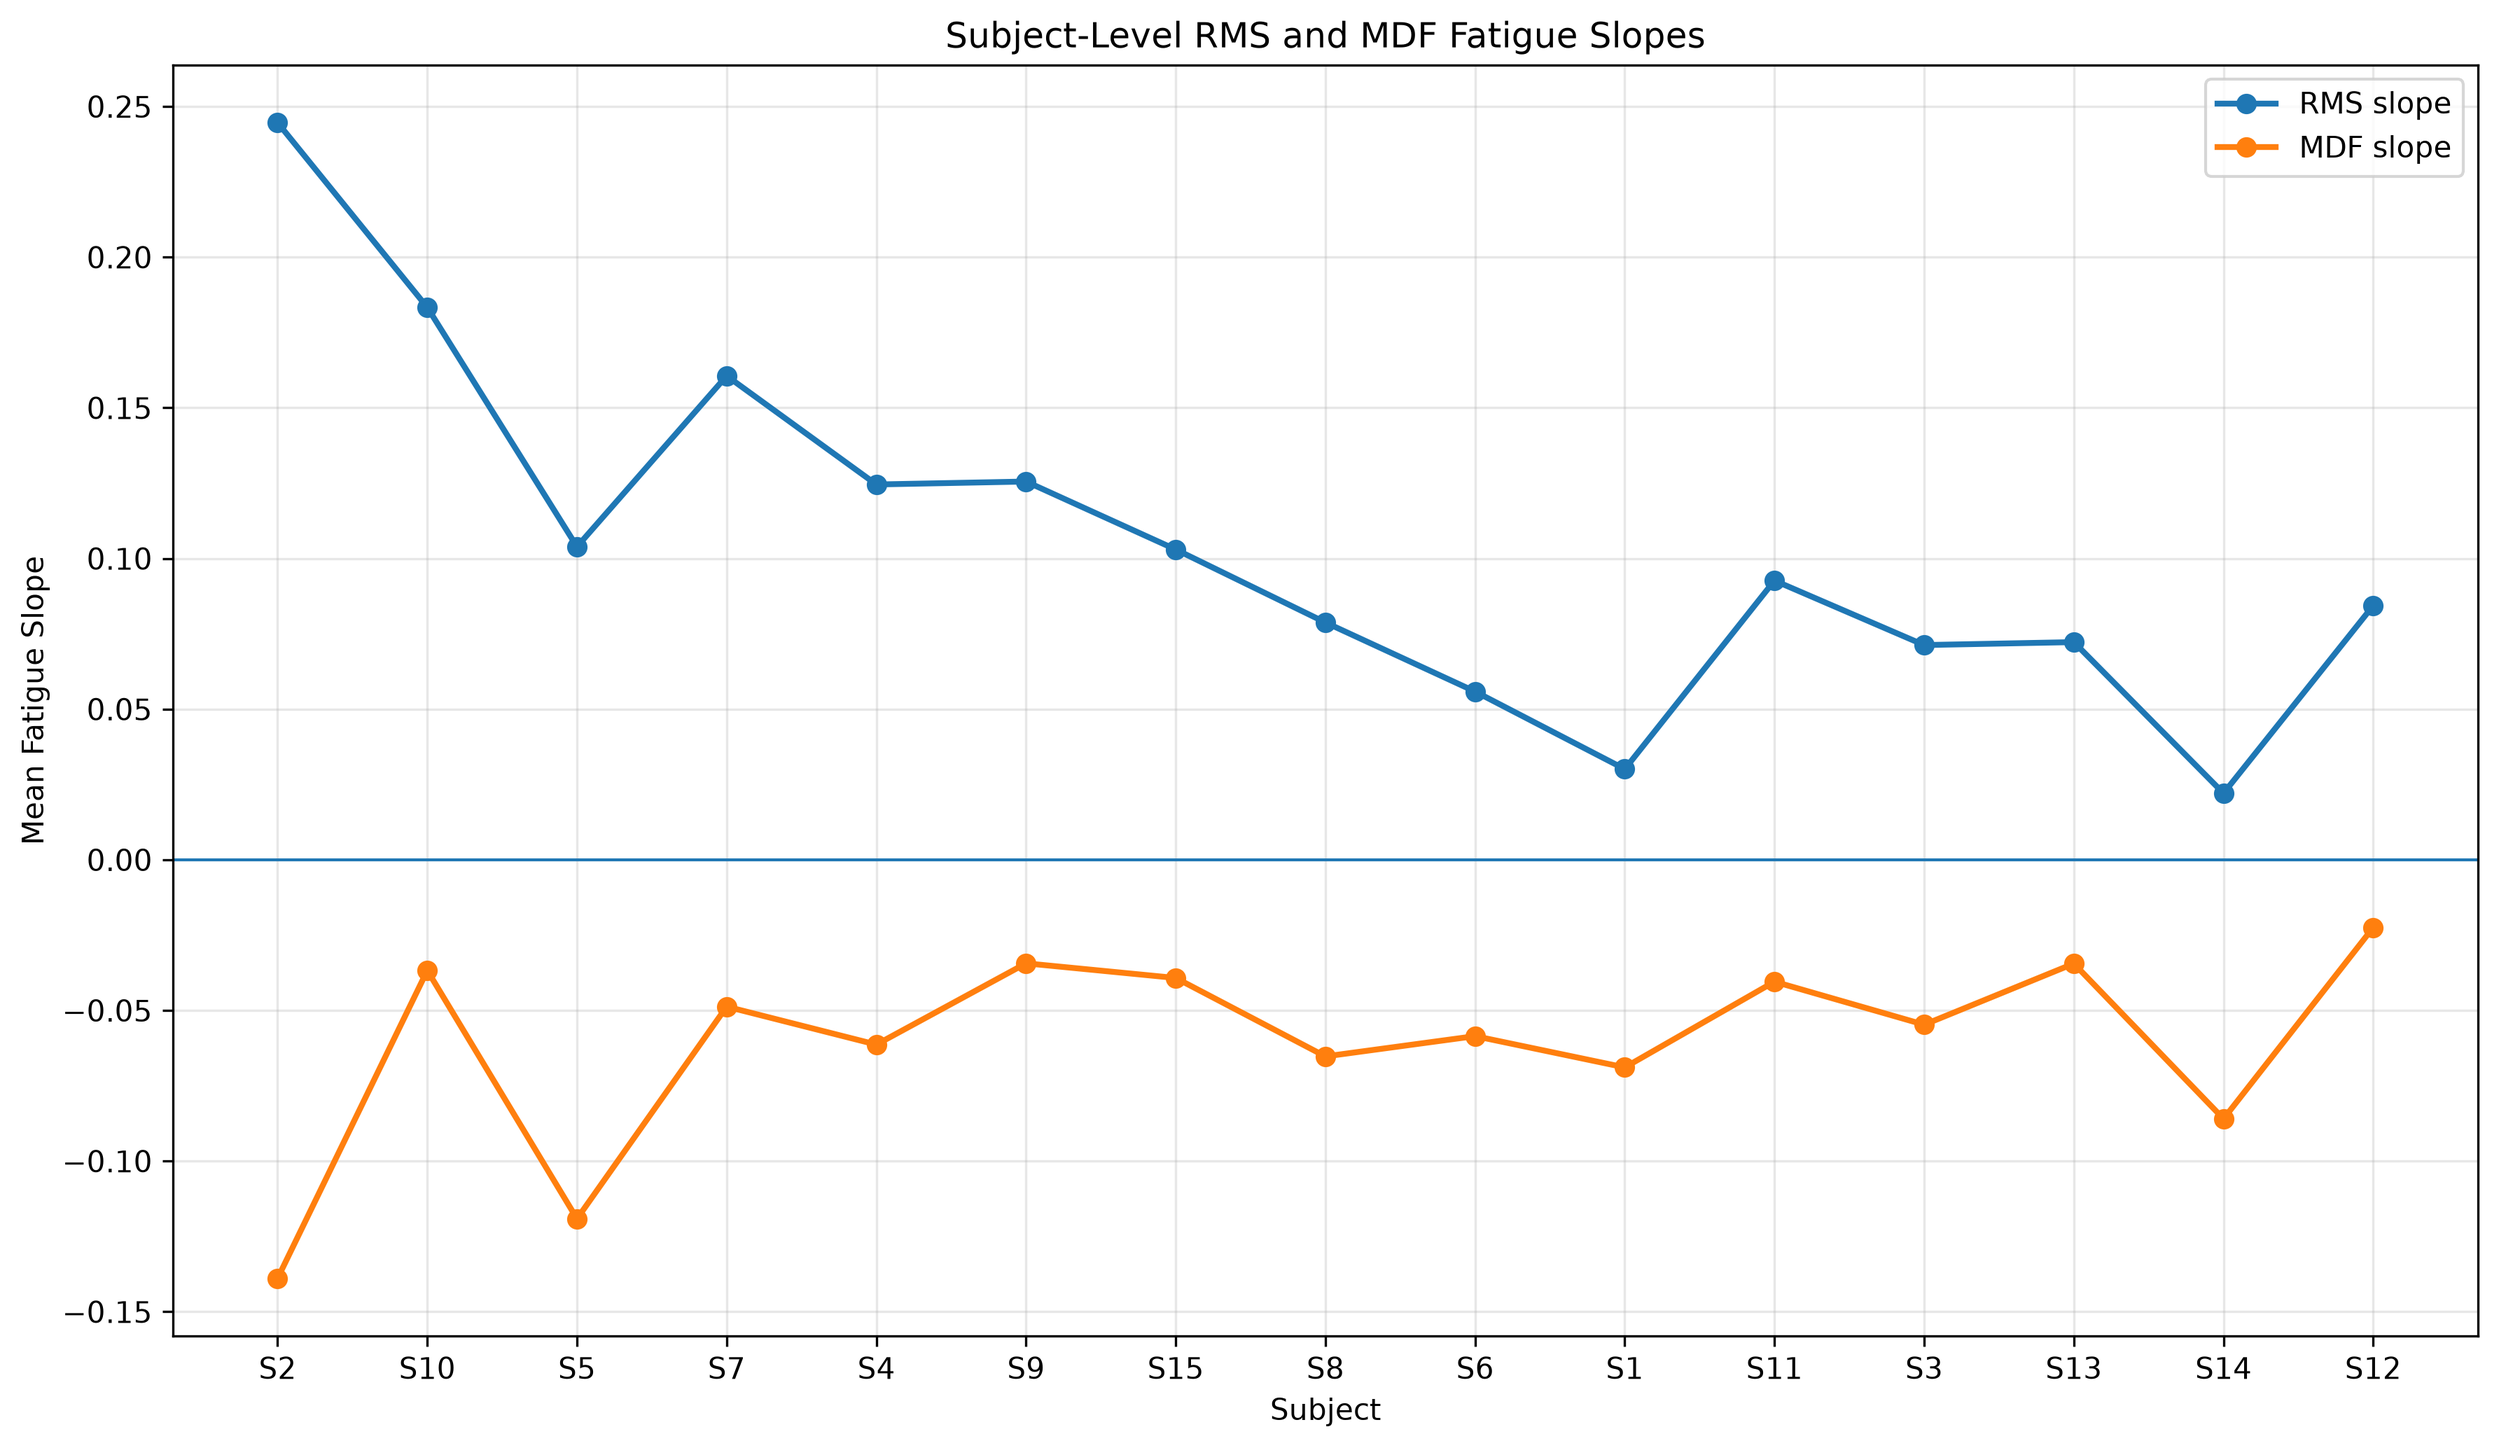
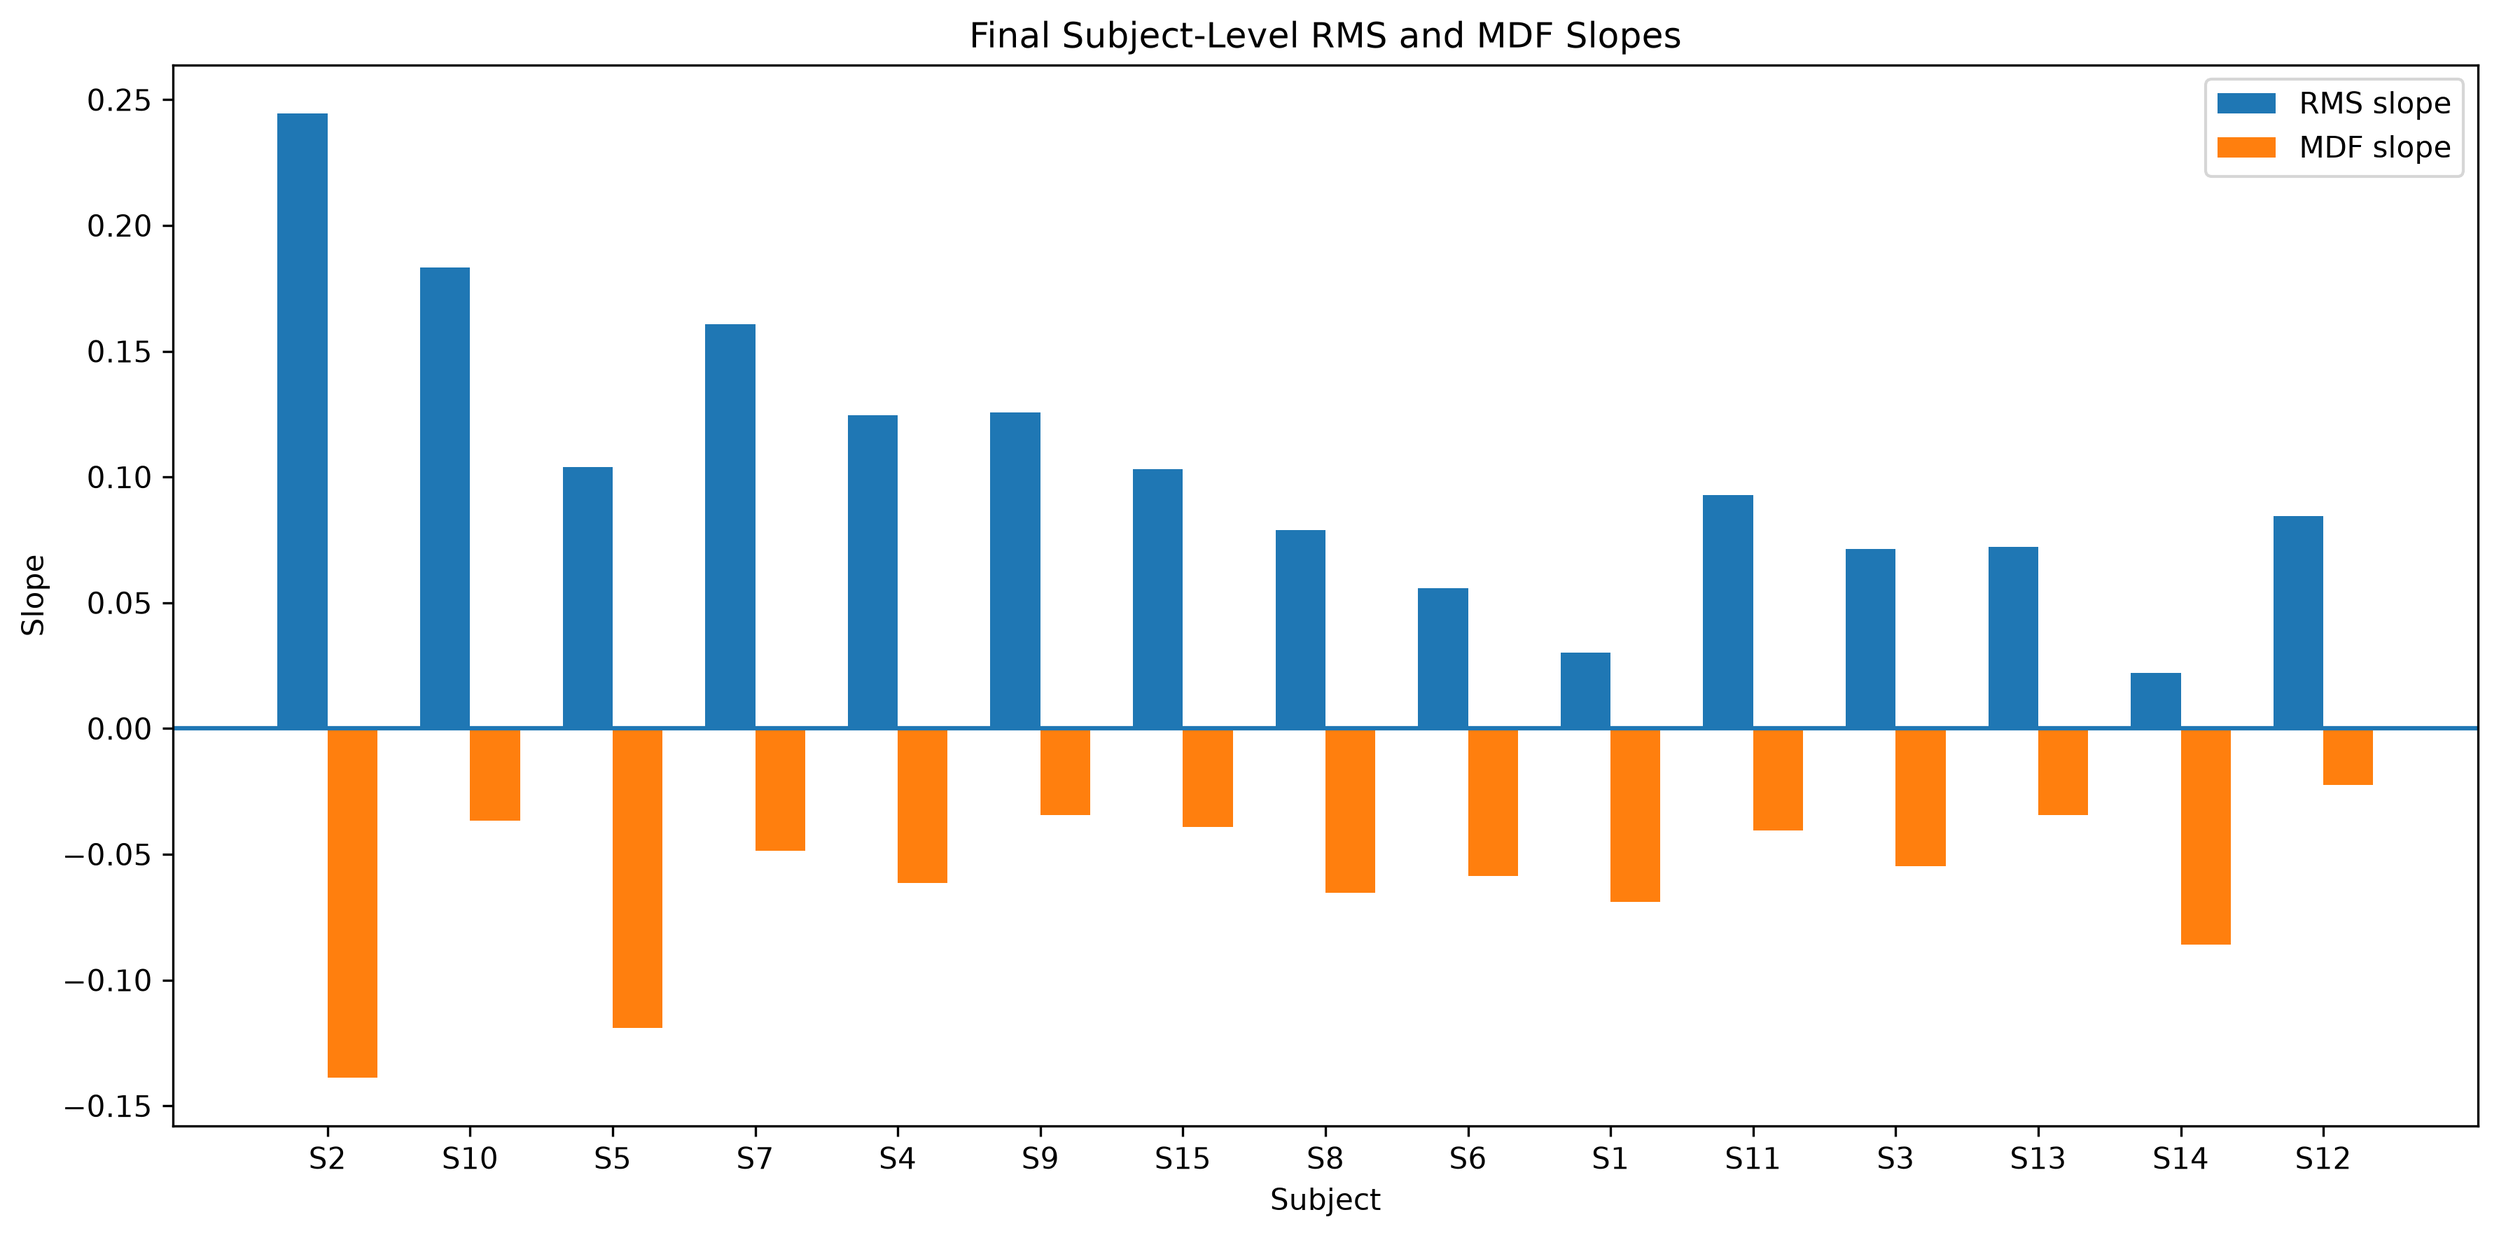
Update subject-level fatigue analysis and figures

diff --git a/subject_level_plots.py b/subject_level_plots.py
@@ -1,6 +1,6 @@
 import pandas as pd
-import matplotlib.pyplot as plt
 import numpy as np
+import matplotlib.pyplot as plt
 
 # ============================================================
 # SUBJECT-LEVEL sEMG FATIGUE VISUALIZATION
@@ -10,24 +10,26 @@ INPUT_FILE = "subject_level_fatigue_summary.csv"
 
 df = pd.read_csv(INPUT_FILE)
 
-# Sort by fatigue score
-df = df.sort_values("Fatigue_Score", ascending=False).reset_index(drop=True)
+# Sort by final rank
+df = df.sort_values("Final_Rank").reset_index(drop=True)
 
-subjects = df["Subject"].astype(str)
 
-# ------------------------------------------------------------
-# FIGURE 1: Fatigue Score by Subject
-# ------------------------------------------------------------
+# ============================================================
+# FIGURE 6
+# SUBJECT-LEVEL FATIGUE SCORES
+# ============================================================
 
-plt.figure(figsize=(12, 6))
+plt.figure(figsize=(10, 6))
 
-plt.bar(subjects, df["Fatigue_Score"])
+plt.bar(
+    df["Subject"].astype(str),
+    df["Fatigue_Score"]
+)
 
 plt.xlabel("Subject")
 plt.ylabel("Fatigue Score")
-plt.title("Subject-Level sEMG Fatigue Score")
+plt.title("Subject-Level sEMG Fatigue Scores")
 
-plt.grid(axis="y", alpha=0.3)
 plt.tight_layout()
 
 plt.savefig(
@@ -36,37 +38,42 @@ plt.savefig(
     bbox_inches="tight"
 )
 
-plt.show()
+plt.close()
 
 
-# ------------------------------------------------------------
-# FIGURE 2: RMS vs MDF Fatigue Slopes
-# ------------------------------------------------------------
+# ============================================================
+# FIGURE 7
+# SUBJECT-LEVEL RMS-MDF RELATIONSHIP
+# ============================================================
 
-plt.figure(figsize=(10, 7))
+plt.figure(figsize=(8, 6))
 
 plt.scatter(
     df["Mean_RMS_Slope"],
     df["Mean_MDF_Slope"],
-    s=80
+    s=100
 )
 
 for _, row in df.iterrows():
+
     plt.annotate(
         f"S{int(row['Subject'])}",
-        (row["Mean_RMS_Slope"], row["Mean_MDF_Slope"]),
-        xytext=(5, 5),
+        (
+            row["Mean_RMS_Slope"],
+            row["Mean_MDF_Slope"]
+        ),
+        xytext=(6, 6),
         textcoords="offset points"
     )
 
-plt.axhline(0, linewidth=1)
-plt.axvline(0, linewidth=1)
+plt.axhline(0)
+plt.axvline(0)
 
-plt.xlabel("Mean RMS Slope")
-plt.ylabel("Mean MDF Slope")
-plt.title("Subject-Level RMS vs MDF Fatigue Slopes")
+plt.xlabel("Mean RMS slope")
+plt.ylabel("Mean MDF slope")
 
-plt.grid(alpha=0.3)
+plt.title("Subject-Level RMS-MDF Relationship")
+
 plt.tight_layout()
 
 plt.savefig(
@@ -75,42 +82,34 @@ plt.savefig(
     bbox_inches="tight"
 )
 
-plt.show()
+plt.close()
 
 
-# ------------------------------------------------------------
-# FIGURE 3: Expected Fatigue Direction
-# ------------------------------------------------------------
+# ============================================================
+# FIGURE 8
+# SUBJECT-LEVEL FATIGUE DIRECTION
+# ============================================================
 
-x = np.arange(len(df))
-width = 0.35
-
-plt.figure(figsize=(13, 6))
-
-plt.bar(
-    x - width / 2,
-    df["RMS_Positive_%"],
-    width,
-    label="RMS Positive (%)"
+df["Expected_Direction"] = np.where(
+    (df["Mean_RMS_Slope"] > 0) &
+    (df["Mean_MDF_Slope"] < 0),
+    "Expected",
+    "Other"
 )
 
+direction_counts = df["Expected_Direction"].value_counts()
+
+plt.figure(figsize=(8, 6))
+
 plt.bar(
-    x + width / 2,
-    df["MDF_Negative_%"],
-    width,
-    label="MDF Negative (%)"
+    direction_counts.index,
+    direction_counts.values
 )
 
-plt.xticks(x, subjects)
+plt.xlabel("Fatigue Direction")
+plt.ylabel("Number of Subjects")
+plt.title("Subject-Level Fatigue Direction")
 
-plt.xlabel("Subject")
-plt.ylabel("Subjects/Channels Showing Expected Direction (%)")
-plt.title("Consistency of Expected Fatigue Direction")
-
-plt.ylim(0, 110)
-plt.legend()
-
-plt.grid(axis="y", alpha=0.3)
 plt.tight_layout()
 
 plt.savefig(
@@ -119,34 +118,155 @@ plt.savefig(
     bbox_inches="tight"
 )
 
-plt.show()
+plt.close()
 
 
-# ------------------------------------------------------------
-# TOP 5 SUBJECTS
-# ------------------------------------------------------------
+# ============================================================
+# FIGURE 9
+# FINAL SUBJECT-LEVEL RMS AND MDF SLOPES
+# ============================================================
 
-print("\n" + "=" * 80)
-print("TOP 5 FATIGUE-SENSITIVE SUBJECTS")
-print("=" * 80)
+x = np.arange(len(df))
+width = 0.35
 
-top5 = df.head(5)
+plt.figure(figsize=(12, 6))
 
-for _, row in top5.iterrows():
+plt.bar(
+    x - width / 2,
+    df["Mean_RMS_Slope"],
+    width,
+    label="RMS slope"
+)
 
-    print(
-        f"Subject {int(row['Subject'])} | "
-        f"Fatigue Score = {row['Fatigue_Score']:.4f} | "
-        f"RMS slope = {row['Mean_RMS_Slope']:.5f} | "
-        f"MDF slope = {row['Mean_MDF_Slope']:.5f}"
-    )
+plt.bar(
+    x + width / 2,
+    df["Mean_MDF_Slope"],
+    width,
+    label="MDF slope"
+)
+
+plt.axhline(0)
+
+plt.xticks(
+    x,
+    [f"S{int(s)}" for s in df["Subject"]]
+)
+
+plt.xlabel("Subject")
+plt.ylabel("Slope")
+plt.title("Final Subject-Level RMS and MDF Slopes")
+
+plt.legend()
+
+plt.tight_layout()
+
+plt.savefig(
+    "figure9_final_RMS_MDF_slopes.png",
+    dpi=300,
+    bbox_inches="tight"
+)
+
+plt.close()
 
 
-print("\n" + "=" * 80)
+# ============================================================
+# FIGURE 10
+# FINAL SUBJECT-LEVEL FATIGUE RANKING
+# ============================================================
+
+ranking = df.sort_values(
+    "Fatigue_Score",
+    ascending=False
+).reset_index(drop=True)
+
+plt.figure(figsize=(10, 6))
+
+plt.bar(
+    [f"S{int(s)}" for s in ranking["Subject"]],
+    ranking["Fatigue_Score"]
+)
+
+plt.xlabel("Subject")
+plt.ylabel("Fatigue Score")
+plt.title("Final Subject-Level Fatigue Ranking")
+
+plt.tight_layout()
+
+plt.savefig(
+    "figure10_final_fatigue_ranking.png",
+    dpi=300,
+    bbox_inches="tight"
+)
+
+plt.close()
+
+
+# ============================================================
+# FIGURE 11
+# CONSISTENCY OF EXPECTED FATIGUE DIRECTION
+# ============================================================
+
+plt.figure(figsize=(12, 6))
+
+x = np.arange(len(df))
+width = 0.35
+
+plt.bar(
+    x - width / 2,
+    df["RMS_Positive_%"],
+    width,
+    label="RMS positive (%)"
+)
+
+plt.bar(
+    x + width / 2,
+    df["MDF_Negative_%"],
+    width,
+    label="MDF negative (%)"
+)
+
+plt.axhline(50)
+
+plt.xticks(
+    x,
+    [f"S{int(s)}" for s in df["Subject"]]
+)
+
+plt.xlabel("Subject")
+plt.ylabel("Percentage of channels (%)")
+
+plt.title("Consistency of Expected Fatigue Direction")
+
+plt.ylim(0, 100)
+
+plt.legend()
+
+plt.tight_layout()
+
+plt.savefig(
+    "figure11_fatigue_direction_consistency.png",
+    dpi=300,
+    bbox_inches="tight"
+)
+
+plt.close()
+
+
+# ============================================================
+# COMPLETE
+# ============================================================
+
+print("=" * 100)
 print("SUBJECT-LEVEL VISUALIZATION COMPLETE")
-print("=" * 80)
+print("=" * 100)
 
-print("\nFigures saved:")
+print("\nSaved figures:")
+
 print("1. figure6_subject_fatigue_scores.png")
 print("2. figure7_subject_RMS_MDF_relationship.png")
 print("3. figure8_subject_fatigue_direction.png")
+print("4. figure9_final_RMS_MDF_slopes.png")
+print("5. figure10_final_fatigue_ranking.png")
+print("6. figure11_fatigue_direction_consistency.png")
+
+print("=" * 100)
